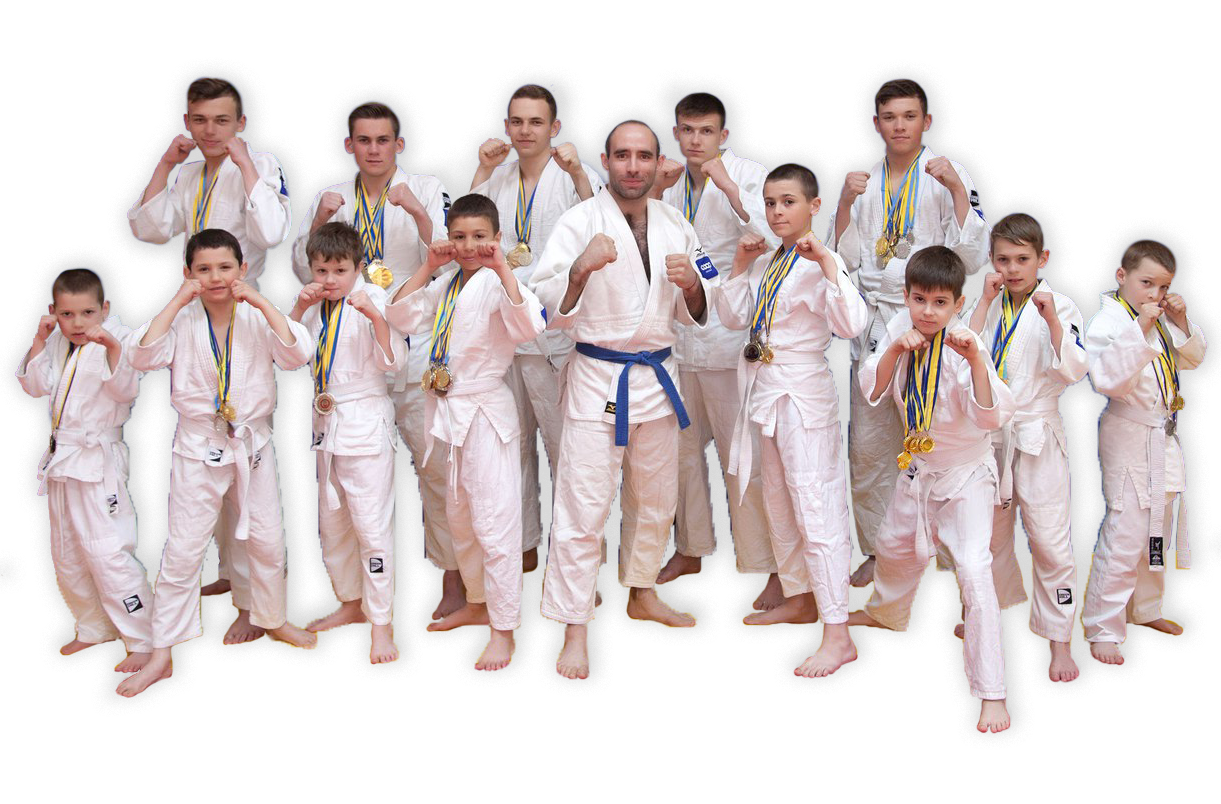
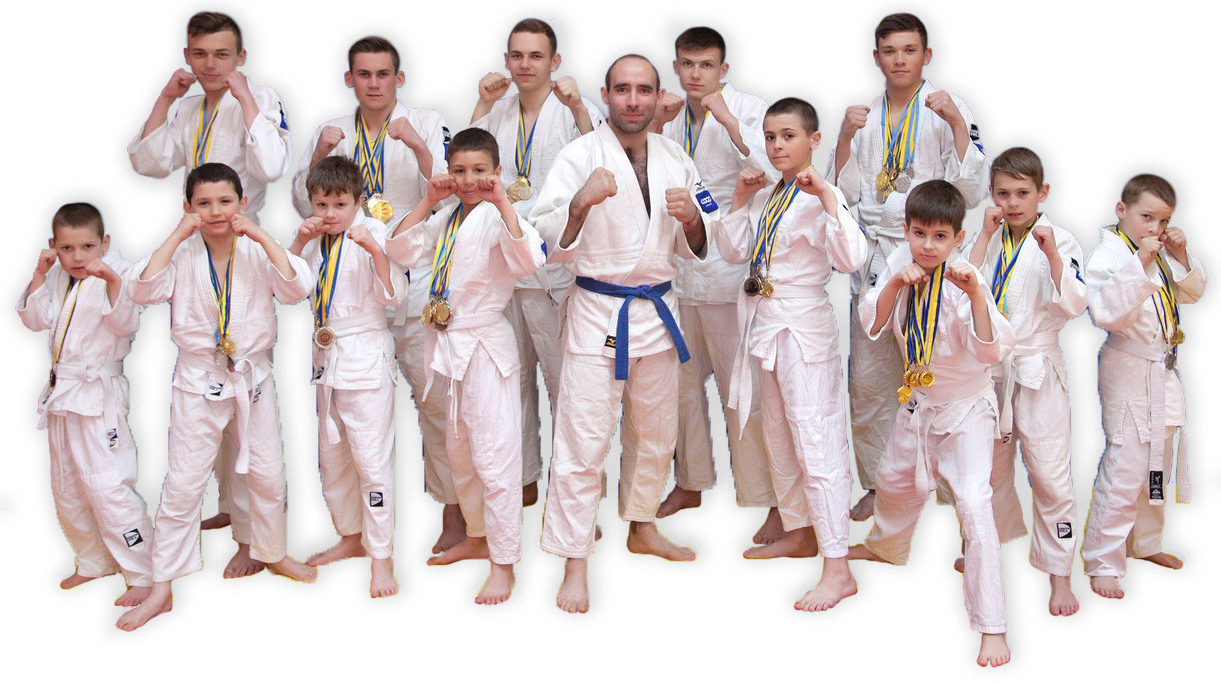
Home and coach page updates

diff --git a/views/partials/coach.html b/views/partials/coach.html
@@ -1,9 +1,8 @@
-<section id="main" class="relative coach">
-  <img class="main-img absolute-center" src="/img/coach/dima.png">
+<section id="main" class="coach">
   <div class="text-center container-fluid">
     <div class="row">
       <div class="col-md-6">
-        <div class="main-title text-center">Таранець Дмитро</div>
+        <div class="main-title text-center">Тренер клубу - Таранець Дмитро</div>
       </div>
       <!-- <div class="col-md-6">
         <div class="main-description">
@@ -12,7 +11,8 @@
       </div> -->
     </div>
   </div>
-  <div class="main-line">
+  <div class="main-line relative">
+    <img class="main-img" src="/img/coach/dima.png">
     <div class="row">
       <div class="col-6">
         Спортивний клуб "САПСАН" створений з метою сприяння розвитку рукопашного бою та східних видів двобою у

diff --git a/views/partials/home.html b/views/partials/home.html
@@ -1,5 +1,4 @@
-<section id="main" class="relative">
-  <img class="main-img absolute-center" src="/img/full/14.png">
+<section id="main">
   <div class="text-center container-fluid">
     <div class="row">
       <div class="col-12 col-lg-6">
@@ -13,7 +12,8 @@
       </div>
     </div>
   </div>
-  <div class="main-line">
+  <div class="main-line relative">
+    <img class="main-img absolute-center" src="/img/full/14.png">
     <img class="left-img vertical-center d-none d-xl-block" src="/img/judo_tr_bl_yel.png">
     <img class="right-img vertical-center d-none d-xl-block" src="/img/judo_tr_bl_yel.png">
   </div>

diff --git a/public/styles/style.css b/public/styles/style.css
@@ -93,19 +93,15 @@ button {
 }
 
 .main-img {
-  z-index: 3;
   width: 95%;
-  top: 57%;
 }
 
 .main-line {
-  position: absolute;
-  top: 36%;
   width: 100%;
-  height: 43%;
+  height: 275px;
+  margin-top: 125px;
   background: #234099;
   color: #fff;
-  z-index: 1;
 }
 
 .left-img {
@@ -188,9 +184,10 @@ button {
 }
 
 .coach .main-img {
-  width: 30%;
-  top: 52%;
-  left: 73%;
+  position: absolute;
+  width: 27%;
+  bottom: 0;
+  right: 10%;
 }
 
 #main.about {
